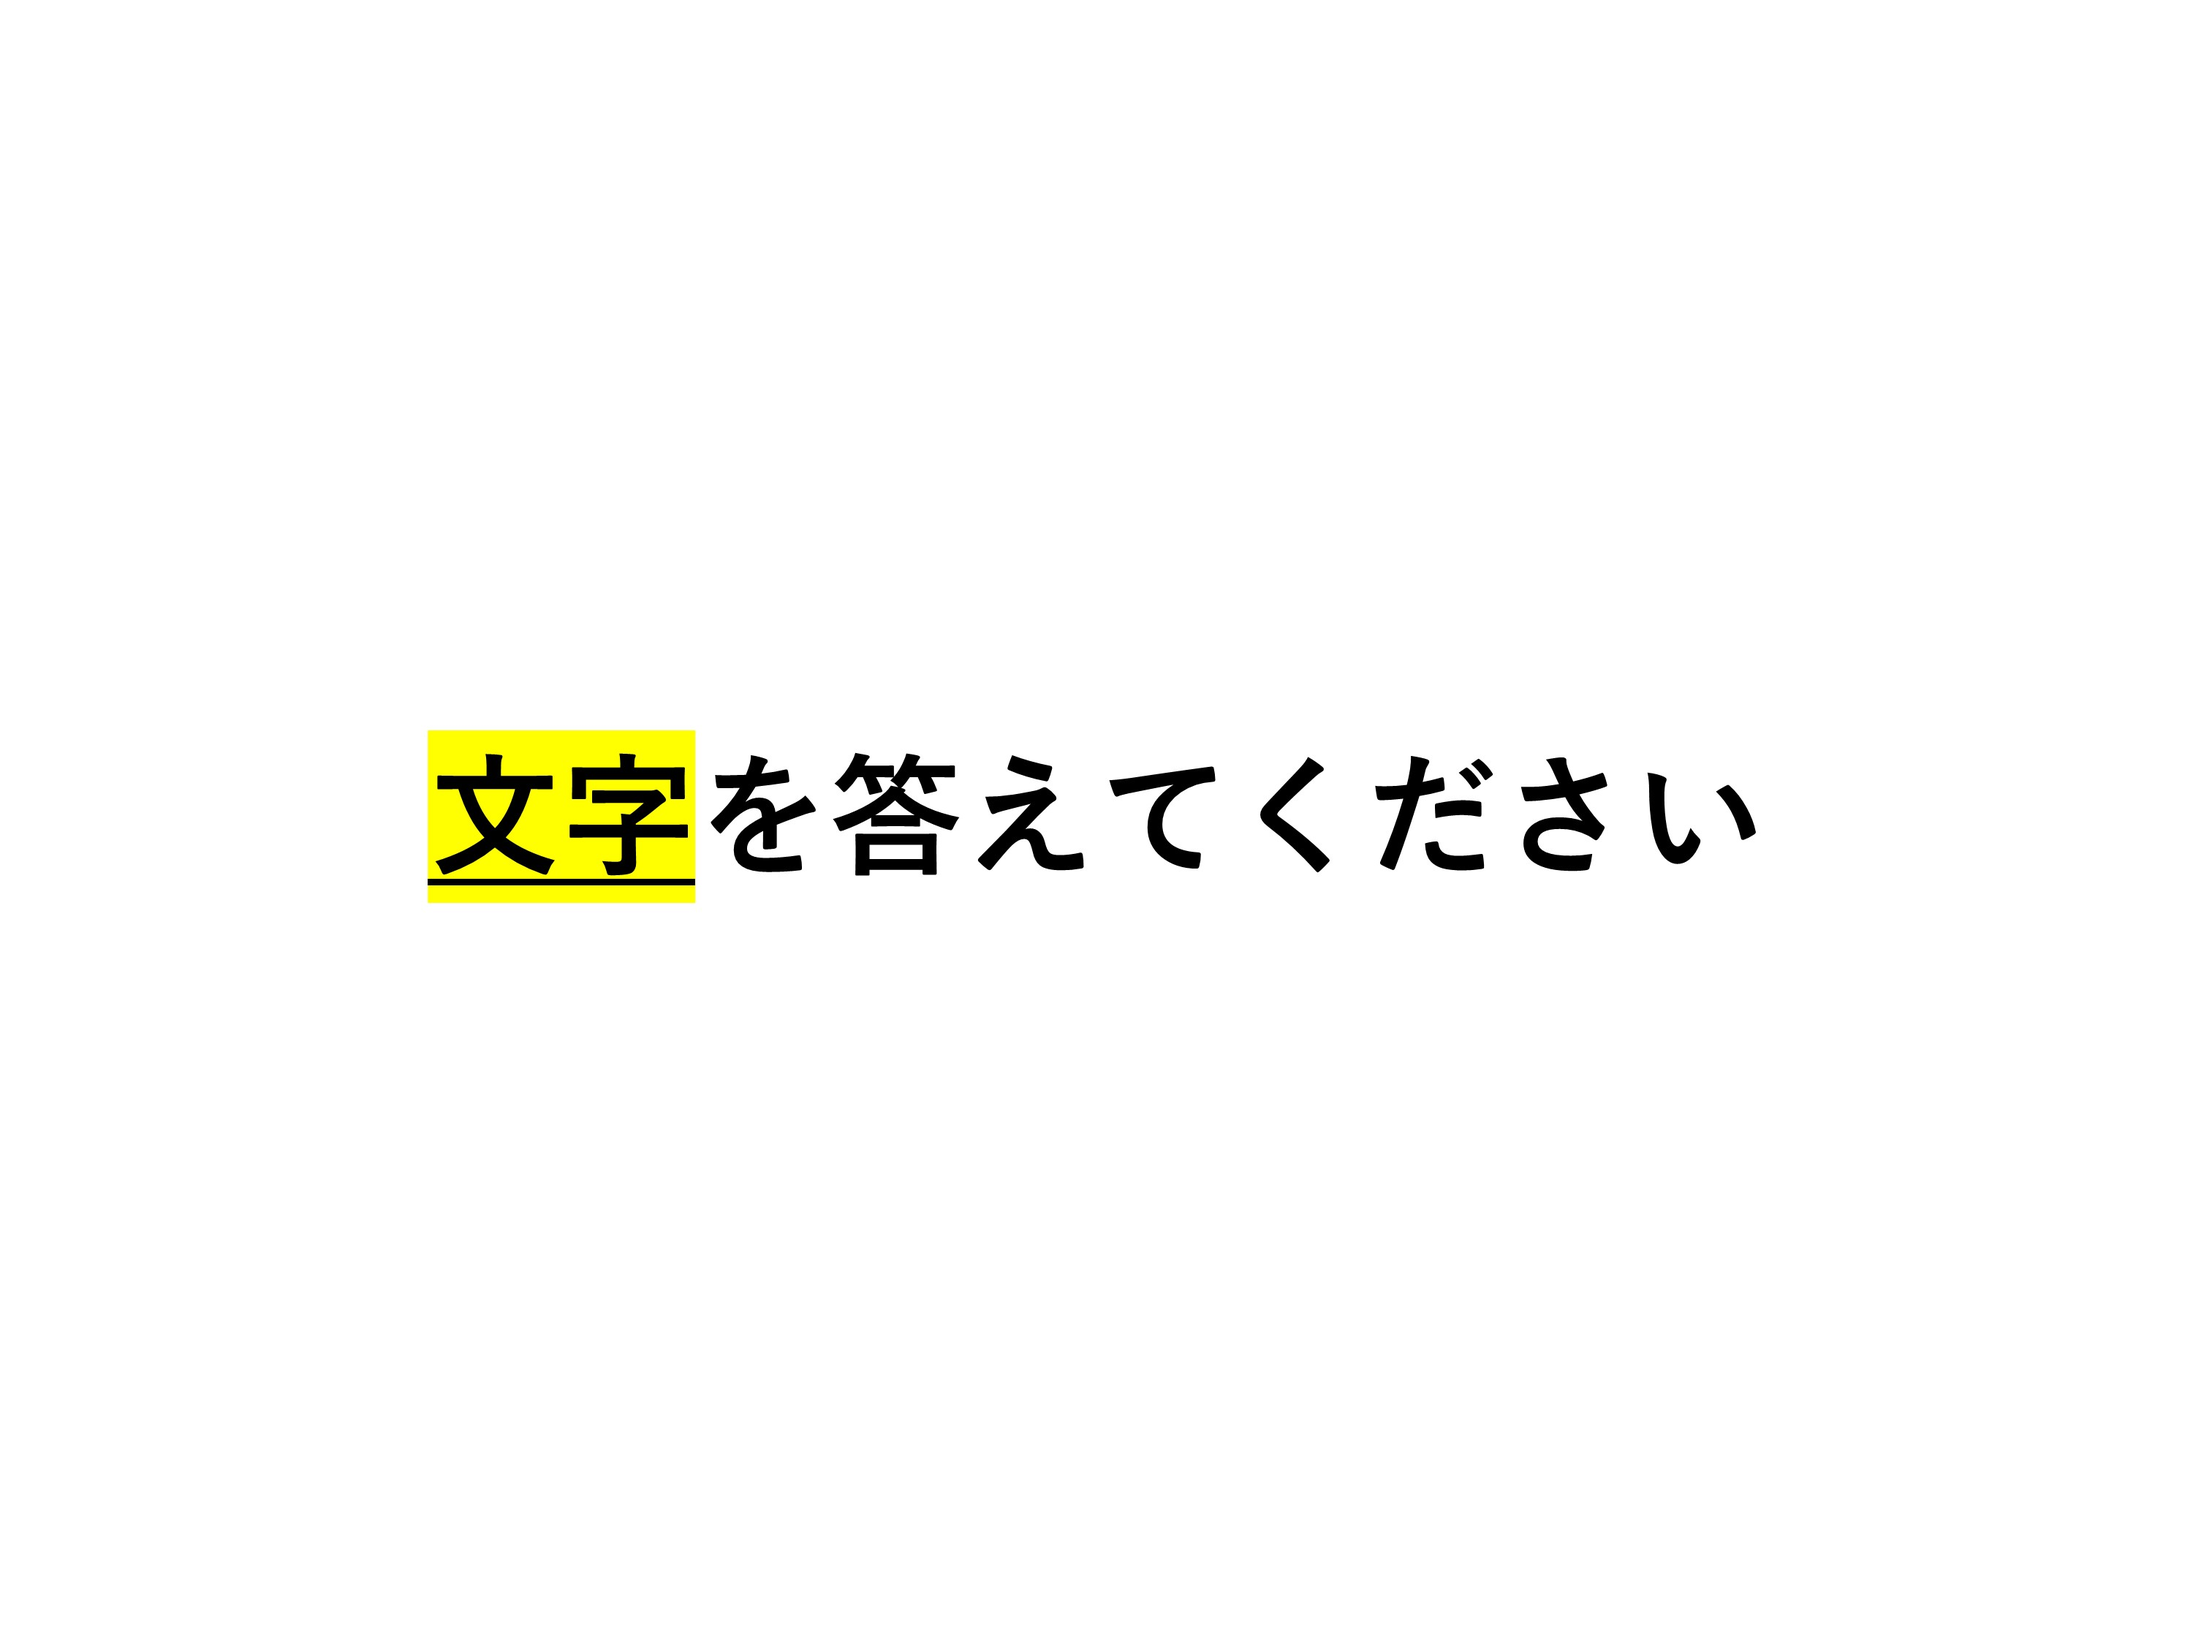
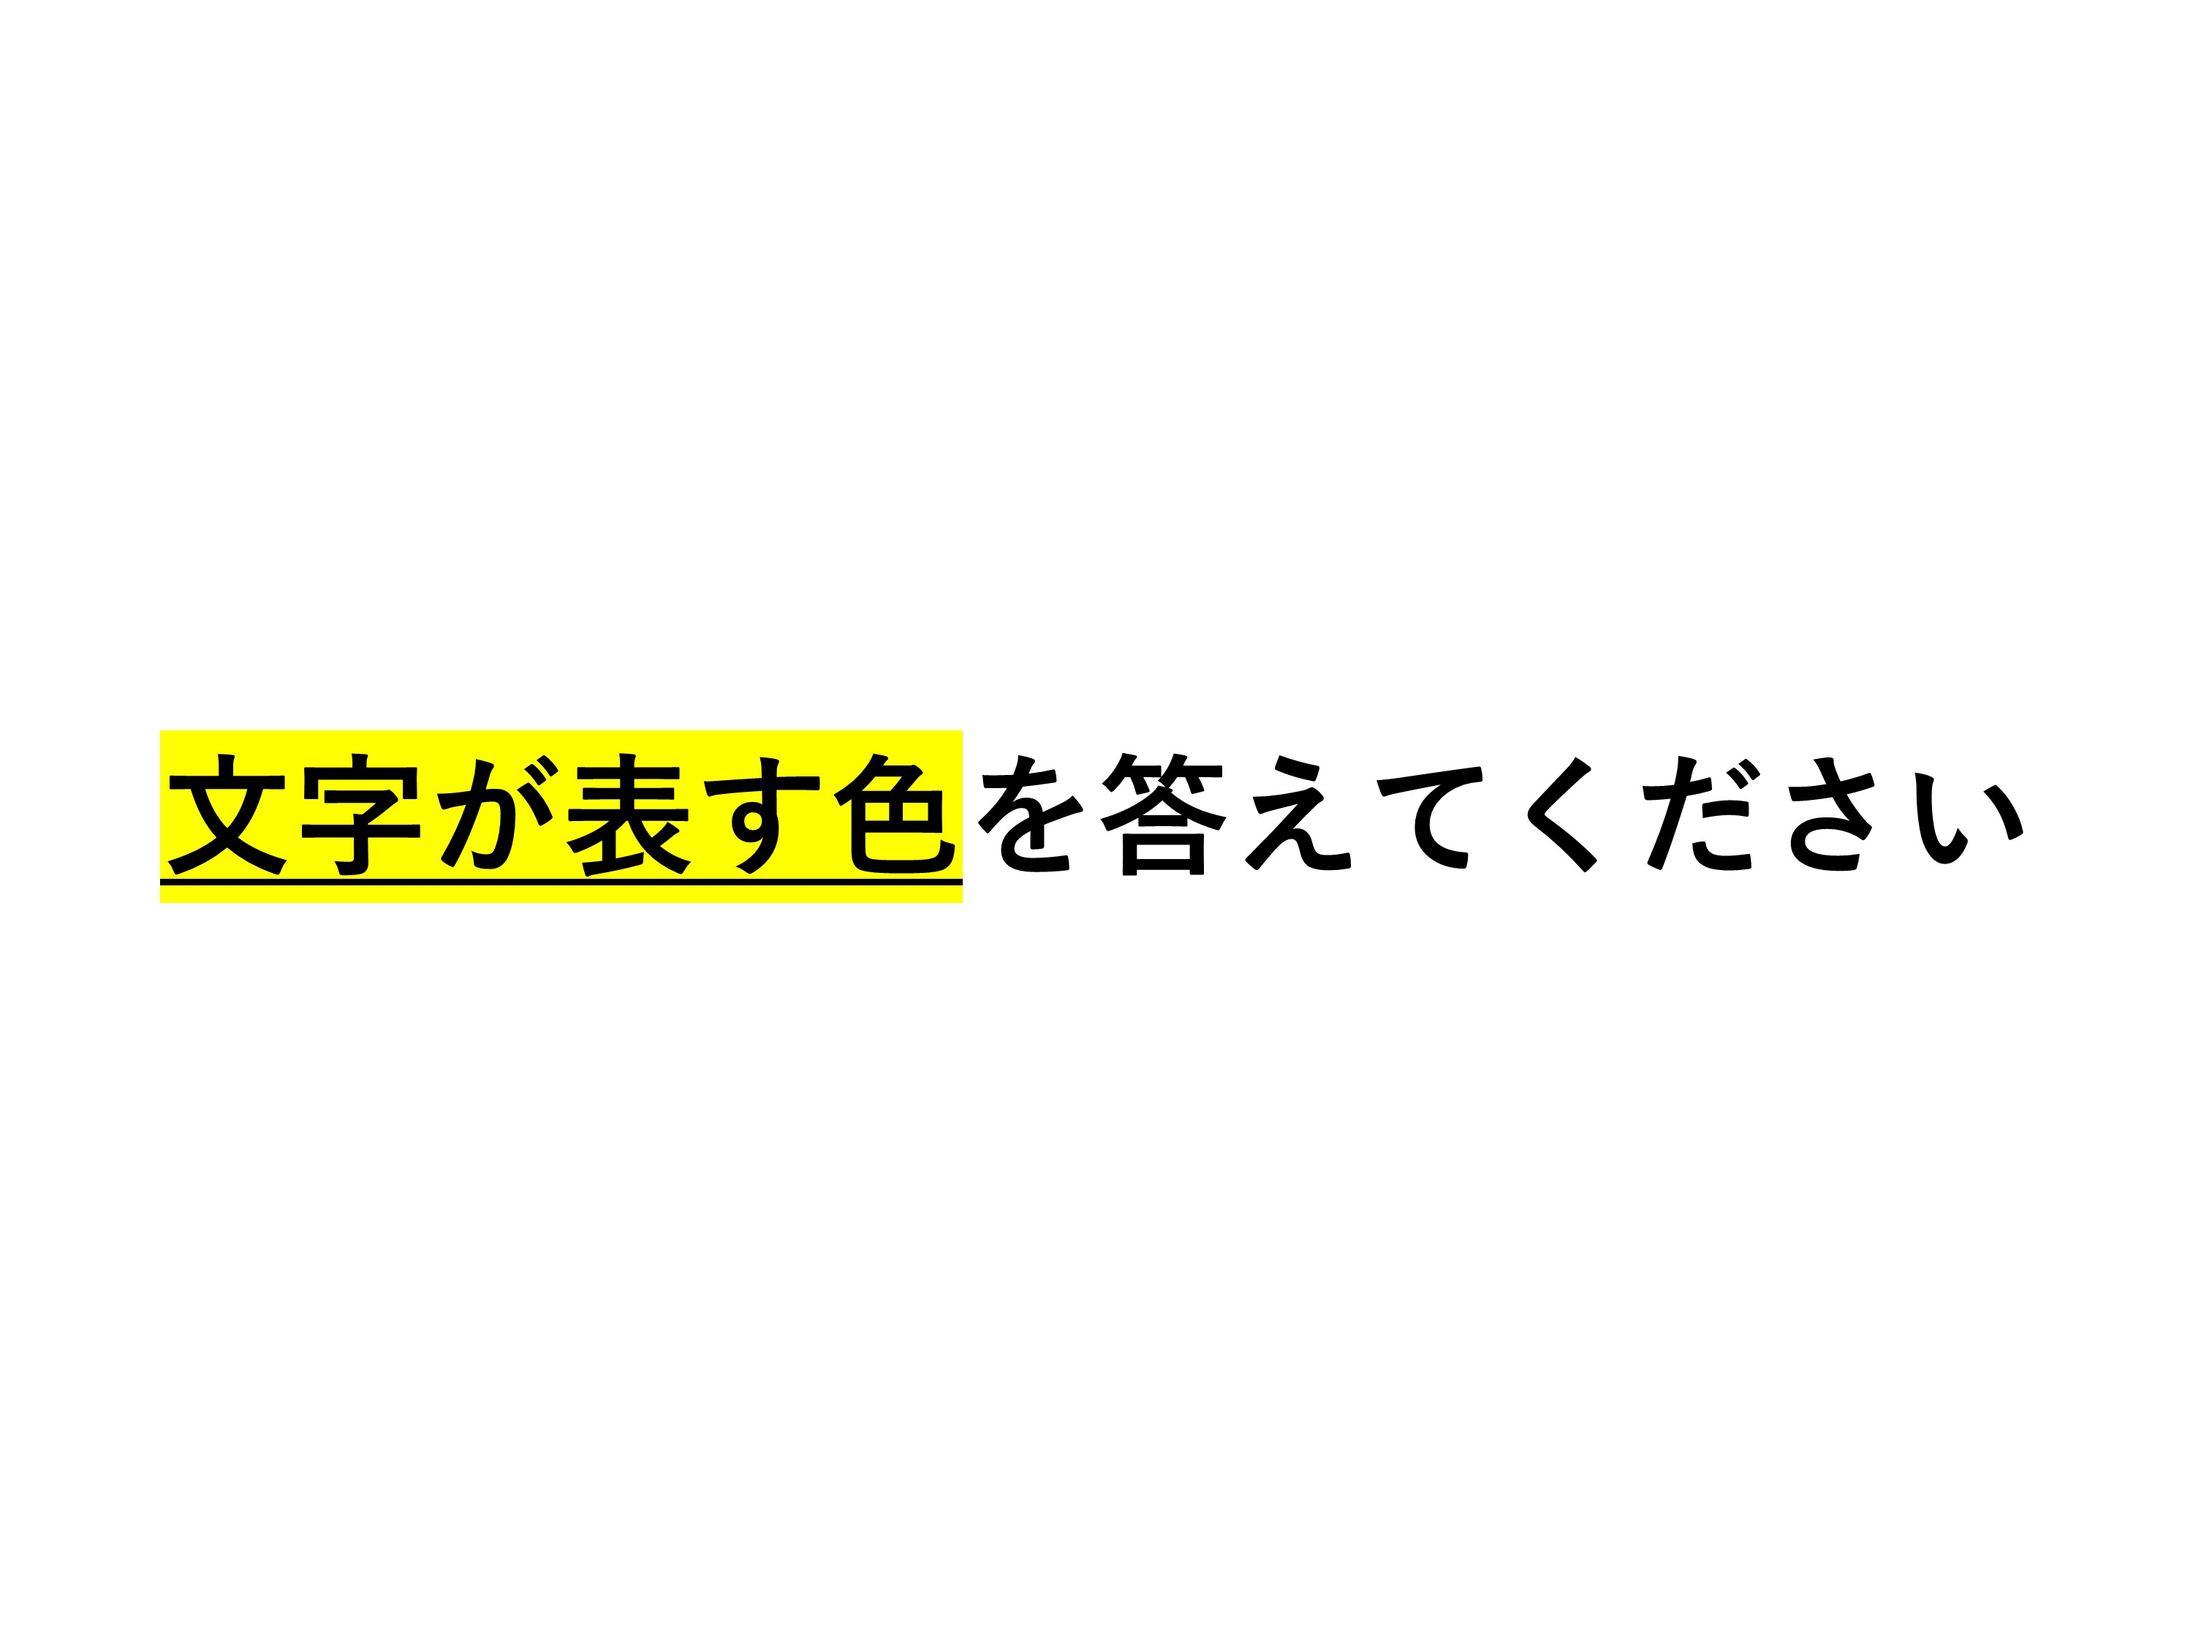
Modify stroop test

Changed region(s): [[0.062, 0.4356, 0.93, 0.56]]

diff --git a/stroopwindow.cpp b/stroopwindow.cpp
@@ -29,6 +29,11 @@ StroopWindow::StroopWindow(QWidget *parent) :
     // Accept inputs
     acceptArrows = false;
 
+    // Mode count
+    numPixShow = 10;
+    countPixShown = numPixShow;
+    testMode = 0;
+
     // Load initial image
     waitForKey = false;
     pix = QPixmap(":/resources/img/count/waiting.JPG");
@@ -65,7 +70,7 @@ bool StroopWindow::eventFilter(QObject* obj, QEvent* event)
             if (keyEvent->key() == Qt::Key_Right) answeredArrow = "Right";
             if (keyEvent->key() == Qt::Key_Up) answeredArrow = "Up";
             if (keyEvent->key() == Qt::Key_Down) answeredArrow = "Down";
-            saveResult(stroopMain->testMode,
+            saveResult(testMode,
                        answeredArrow,
                        stroopMain->targetColorName,
                        timer.elapsed());
@@ -132,22 +137,17 @@ void StroopWindow::countDown()
     qApp->processEvents();
     QThread::msleep(1000);
 
-    // Show fixation
-    ui->label_pic->setPixmap(stroopMain->pixWait.scaled(ui->label_pic->width(),
-                                                        ui->label_pic->height(),
-                                                        Qt::KeepAspectRatio));
-    ui->label_pic->repaint();
-    qApp->processEvents();
-
     changeMode();
 }
 
 void StroopWindow::changeMode() {
     QPixmap pixRule;
-    if (stroopMain->testMode) {
+    if (testMode==0) {
         pixRule = stroopMain->pixInstructionColor;
-    } else {
+    } else if (testMode==1) {
         pixRule = stroopMain->pixInstructionWord;
+    } else if (testMode==2) {
+        pixRule = stroopMain->pixInstructionCword;
     }
 
     // Set instruction image
@@ -165,33 +165,45 @@ void StroopWindow::changeMode() {
 
 void StroopWindow::stroopSession()
 {
+    // Check session number
+    if (countPixShown==0) {
+        //initialize
+        countPixShown=numPixShow;
+        switch (testMode) {
+                case 0:
+                    testMode = 1;
+                    startSession();
+                    break;
+                case 1:
+                    testMode = 2;
+                    startSession();
+                    break;
+                case 2:
+                    close();
+                    break;
+                default:
+                    break;
+            }
+    } else {
+        // Decrement number
+        countPixShown--;
 
-    // Grab new image dataset
-    stroopMain->choosePix();
+        // Grab new image dataset
+        stroopMain->choosePix(testMode);
 
-    // Show fixation
-    ui->label_pic->setPixmap(stroopMain->pixWait.scaled(ui->label_pic->width(),
-                                                         ui->label_pic->height(),
-                                                         Qt::KeepAspectRatio));
-    ui->label_pic->repaint();
-    qApp->processEvents();
+        // Show color image
+        ui->label_pic->setPixmap(stroopMain->pixColor.scaled(ui->label_pic->width(),
+                                                             ui->label_pic->height(),
+                                                             Qt::KeepAspectRatio));
+        ui->label_pic->repaint();
+        qApp->processEvents();
 
-    // Duration of fixation
-    int fixationWait = rand() % (1600-400 + 1) + 400; // time to display fixation (400-1600 ms)
-    QThread::msleep(fixationWait);
-
-    // Show color image
-    ui->label_pic->setPixmap(stroopMain->pixColor.scaled(ui->label_pic->width(),
-                                                         ui->label_pic->height(),
-                                                         Qt::KeepAspectRatio));
-    ui->label_pic->repaint();
-    qApp->processEvents();
-
-    acceptArrows = true;
-    timer.start(); // continues until an arrow key is entered
+        acceptArrows = true;
+        timer.start(); // continues until an arrow key is entered
+    }
 }
 
-void StroopWindow::saveResult(bool rule,
+void StroopWindow::saveResult(int rule,
                               QString pixName,
                               QString arrow,
                               qint64 reactionTime)

diff --git a/stroopmain.cpp b/stroopmain.cpp
@@ -6,9 +6,6 @@
 
 StroopMain::StroopMain()
 {
-    QPixmap initialPix(":/resources/img/Stroop_test/fixation.JPG");
-    pixWait = initialPix;
-    testMode = true; // when true, answer color of words
     initializeImages();
 }
 
@@ -26,23 +23,39 @@ QStringList StroopMain::loadImagesets(QString dirName)
 
 void StroopMain::initializeImages()
 {
-    imagePathsColors = loadImagesets(":/resources/img/Stroop_test/colors");
+    imagePathsPatch = loadImagesets(":/resources/img/Stroop_test/colorPatch");
+    imagePathsWords = loadImagesets(":/resources/img/Stroop_test/words");
+    imagePathsCwords = loadImagesets(":/resources/img/Stroop_test/colorWords");
     pixInstructionColor = QPixmap(":/resources/img/Stroop_test/instruction/answer_color.JPG");
     pixInstructionWord = QPixmap(":/resources/img/Stroop_test/instruction/answer_word.JPG");
+    pixInstructionCword = QPixmap(":/resources/img/Stroop_test/instruction/answer_cword.JPG");
 }
 
-void StroopMain::choosePix()
+void StroopMain::choosePix(int testmode)
 {
     QStringList colorPixFile;
 
+    if (testmode==0){
+        colorPixFile = imagePathsPatch;
+    } else if (testmode==1) {
+        colorPixFile = imagePathsWords;
+    } else if (testmode==2) {
+        colorPixFile = imagePathsCwords;
+    }
+
     // Get random cue
-    int pixIdxColor = rand() % imagePathsColors.count();
-    const QFileInfo infoCue(imagePathsColors[pixIdxColor]);
+    int pixIdxColor = rand() % colorPixFile.count();
+    QFileInfo infoCue(colorPixFile[pixIdxColor]);
+
+    while (targetColorName == infoCue.fileName()) {
+        pixIdxColor = rand() % colorPixFile.count();
+        infoCue = colorPixFile[pixIdxColor];
+    }
     targetColorName = infoCue.fileName();
 
     //Display cue image
-    QPixmap cueColor(imagePathsColors[pixIdxColor]);
-    pixColor = cueColor;
+    QPixmap pixDisplay(colorPixFile[pixIdxColor]);
+    pixColor = pixDisplay;
 
     // Debug
     //qDebug() << targetColorName;

diff --git a/antwindow.cpp b/antwindow.cpp
@@ -57,7 +57,8 @@ bool ANTWindow::eventFilter(QObject* obj, QEvent* event)
             acceptArrows = false;
             if (keyEvent->key() == Qt::Key_Left) answeredArrow = "Left";
             if (keyEvent->key() == Qt::Key_Right) answeredArrow = "Right";
-            saveResult(antMain->targetArrowName,
+            saveResult(antMain->targetCueName,
+                       antMain->targetArrowName,
                        answeredArrow,
                        timer.elapsed());
             antSession();
@@ -168,15 +169,16 @@ void ANTWindow::antSession()
     timer.start(); // continues until an arrow key is entered
 }
 
-void ANTWindow::saveResult(QString pixName,
+void ANTWindow::saveResult(QString cue,
                            QString arrow,
+                           QString pixName,
                            qint64 reactionTime)
 {
     QFile data(saveFile);
     if(data.open(QFile::WriteOnly |QIODevice::Append))
     {
         QTextStream output(&data);
-        output << pixName << "," << arrow << "," << reactionTime << "\n";
+        output << cue << "," << arrow << "," << pixName << "," << reactionTime << "\n";
     }
 }
 

diff --git a/antmain.cpp b/antmain.cpp
@@ -35,8 +35,16 @@ void ANTMain::choosePix()
 
     // Get random cue
     int pixIdxCue = rand() % imagePathsCue.count();
-    const QFileInfo infoCue(imagePathsCue[pixIdxCue]);
-    const QString file(infoCue.fileName());
+    QFileInfo infoCue(imagePathsCue[pixIdxCue]);
+    QString file(infoCue.fileName());
+
+    // if file is same as previous
+    while (targetCueName==file){
+        int pixIdxCue = rand() % imagePathsCue.count();
+        infoCue = imagePathsCue[pixIdxCue];
+        file = infoCue.fileName();
+    }
+    targetCueName = file;
 
     // Choose which arrow to show
     if (file == "cue3_top.JPG") arrowPixFile = imagePathsArrow.filter("top");

diff --git a/stroopmain.h b/stroopmain.h
@@ -12,19 +12,19 @@ public:
 
     QStringList loadImagesets(QString dirName);
     void initializeImages();
-    void choosePix();
+    void choosePix(int testmode);
 
-    QPixmap pixWait;
     QPixmap pixColor;
     QPixmap pixInstructionColor;
     QPixmap pixInstructionWord;
+    QPixmap pixInstructionCword;
 
     QString targetColorName;
 
-    bool testMode;
-
 private:
-    QStringList imagePathsColors;
+    QStringList imagePathsPatch;
+    QStringList imagePathsWords;
+    QStringList imagePathsCwords;
 };
 
 #endif // STROOPMAIN_H

diff --git a/mainwindow.cpp b/mainwindow.cpp
@@ -18,14 +18,7 @@ MainWindow::MainWindow(QWidget *parent)
     ui->pushButton_ant->setFixedSize(buttonSize);
     ui->pushButton_stroop->setFixedSize(buttonSize);
 
-    ui->label->setAlignment(Qt::AlignBottom | Qt::AlignLeft);
-
-    // Create result folder
-    QString dirRsult = QDir::currentPath() + "/data";
-    if (!QDir(dirRsult).exists())
-    {
-        QDir().mkdir(dirRsult);
-    }
+    ui->label->setAlignment(Qt::AlignBottom | Qt::AlignRight);
 }
 
 MainWindow::~MainWindow()

diff --git a/stroopwindow.h b/stroopwindow.h
@@ -28,7 +28,7 @@ private:
     void countDown();
     void changeMode();
     void stroopSession();
-    void saveResult(bool, QString, QString, qint64);
+    void saveResult(int, QString, QString, qint64);
 
     Ui::StroopWindow *ui;
     QPixmap pix;
@@ -39,6 +39,10 @@ private:
     bool acceptArrows;
 
     QString saveFile;
+    int testMode;
+
+    int countPixShown;
+    int numPixShow;
 
 protected:
     void resizeEvent(QResizeEvent *event);

diff --git a/main.cpp b/main.cpp
@@ -1,11 +1,20 @@
 #include "mainwindow.h"
 
 #include <QApplication>
+#include <QDir>
 
 int main(int argc, char *argv[])
 {
     QApplication a(argc, argv);
     MainWindow w;
+
+    // Create result folder
+    QString dirRsult = QDir::currentPath() + "/data";
+    if (!QDir(dirRsult).exists())
+    {
+        QDir().mkdir(dirRsult);
+    }
+
     w.show();
     return a.exec();
 }

diff --git a/antmain.h b/antmain.h
@@ -17,10 +17,12 @@ public:
     QPixmap pixCue;
     QPixmap pixArrow;
     QString targetArrowName;
+    QString targetCueName;
 
 private:
     QStringList imagePathsArrow;
     QStringList imagePathsCue;
+
 };
 
 #endif // ANTMAIN_H

diff --git a/antwindow.h b/antwindow.h
@@ -19,7 +19,7 @@ public:
 
     void startSession();
     void antSession();
-    void saveResult(QString, QString, qint64);
+    void saveResult(QString, QString, QString, qint64);
     bool acceptArrows;
 
 signals:
